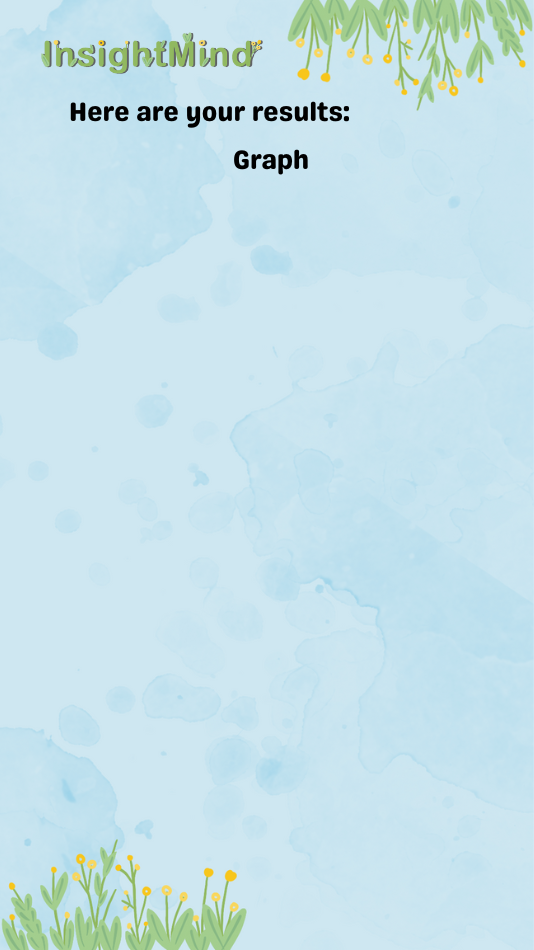
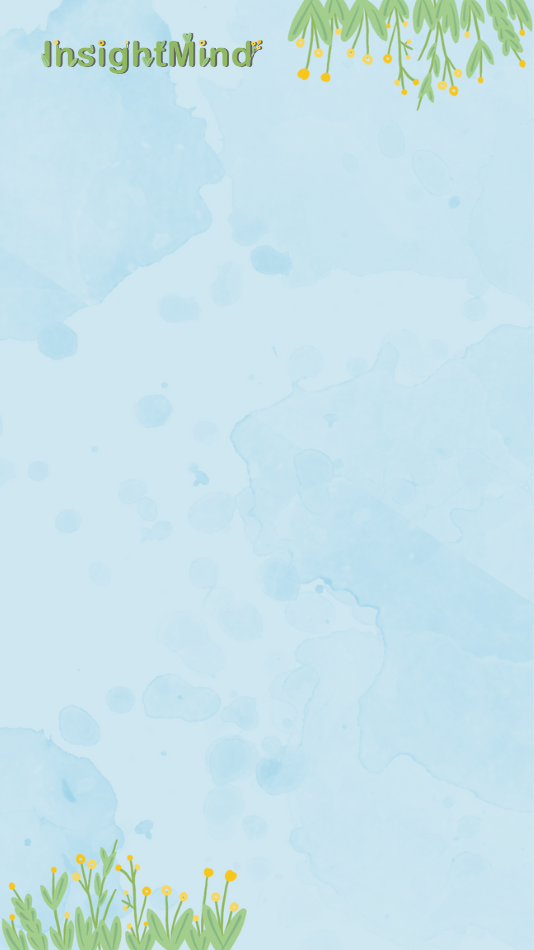
Fix current_page error

Changed region(s): [[0.1199, 0.0916, 0.6592, 0.1832]]

diff --git a/pygame/InsightMind.py b/pygame/InsightMind.py
@@ -237,6 +237,7 @@ def main():
         # Page6: Dass42 introduction
     dass42_intro = pygame.image.load('pygame/images/dass42_intro.png').convert()
         # Page7: questionnaire (Use None for dynamic content page)
+    questionnaire_page = pygame.image.load('pygame/images/clear_page.png').convert()
         # Page8: Result
     result_page = pygame.image.load('pygame/images/result.png').convert()
         # Page9: Advice
@@ -244,7 +245,7 @@ def main():
         # Page10: graph
     graph_page = pygame.image.load('pygame/images/graph.png').convert()
         # List of pages 
-    pages = [main_menu, intro_page1, intro_page2, dass_menu, dass21_intro, dass42_intro, result_page, advice_page, graph_page]
+    pages = [main_menu, intro_page1, intro_page2, dass_menu, dass21_intro, dass42_intro, questionnaire_page, result_page, advice_page, graph_page]
     
     # Initialize buttons
         # Button on MainMenu page
@@ -252,10 +253,10 @@ def main():
     main_button = buttons.Button(65, 474.8, mainButton_img, 1)
         # Button for navigating pages
     back_img = pygame.image.load("pygame/images/back.png").convert_alpha()
-    back_intro_button = buttons.Button(291, 870, back_img, 1)
+    back_intro_button = buttons.Button(300, 880, back_img, 1)
     back_button = buttons.Button(200, 850, back_img, 1)
     next_img = pygame.image.load("pygame/images/next.png").convert_alpha()
-    next_intro_button = buttons.Button(395, 870, next_img, 1)
+    next_intro_button = buttons.Button(400, 880, next_img, 1)
     next_button = buttons.Button(279, 850, next_img, 1)
     start_img = pygame.image.load("pygame/images/start_80px.png").convert_alpha()
     start_button = buttons.Button(206.3, 760, start_img, 1)
@@ -303,6 +304,13 @@ def main():
         screen.fill((0,0,0))
         # Draw the current page
         screen.blit(pages[current_page], (0, 0))
+
+        if current_page >= len(pages):
+            print(f"Error: current_page {current_page} is out of range. Resetting to last available page.")
+            current_page = len(pages) - 1  # Reset to the last valid page index
+        elif current_page < 0:
+            print(f"Error: current_page {current_page} is negative. Resetting to first page.")
+            current_page = 0  # Reset to the first page index
         
         if current_page == 0:
             # screen.blit(main_menu, (0, 0))
@@ -428,7 +436,7 @@ def main():
                     else:
                         questionnaire_finished = True
             if show_error_message and error_message:
-                screen.blit(error_message, (45, 250))
+                screen.blit(error_message, (80, 240))
 
         elif current_page == 5:
             screen.blit(dass42_intro, (0, 0))
@@ -512,70 +520,51 @@ def main():
                     else:
                         questionnaire_finished = True
             if show_error_message and error_message:
-                screen.blit(error_message, (45, 250))
+                screen.blit(error_message, (80, 240))
 
+        # Handling the results page
         if questionnaire_finished and current_page == 7:
             screen.blit(result_page, (0, 0))  
-            # Display a text on the result screen
             textString = "Here are your results"
             headle_text = font3.render(textString, True, (0, 0, 0))
-            screen.blit(headle_text, (130, 900))
-            scores = calculate_dass_scores(responses, version)
-            # make_radar_chart(screen, "DASS Results", scores, font)
-            display_icons(screen, scores, icons)
-            print_scores(screen, scores, version, font, icons)     
-
+            screen.blit(headle_text, (130, 90))
             if not results_printed:
+                scores = calculate_dass_scores(responses, version)
+                display_icons(screen, scores, icons)
+                print_scores(screen, scores, version, font, icons)     
                 print(responses)   
-                debug_print_scores(scores, version)  # Optionally print scores to console for debugging
+                debug_print_scores(scores, version)
                 results_printed = True
 
             if next_intro_button.draw(screen):
-                print("Next Button clicked")  # Debug print
+                print("Next Button clicked")
                 current_page = 8  # Navigate to advice page
                 print("Navigating to advice page.")
-        
+
+        # Handling the advice page
         elif current_page == 8: 
             screen.blit(advice_page, (0, 0))
-            # Display a text on the result screen
             textString = "General Advice"
             headle_text = font3.render(textString, True, (0, 0, 0))
-            screen.blit(headle_text, (130, 90))
-            if not results_printed:
-                scores = calculate_dass_scores(responses, version)
-                # make_radar_chart(screen, "DASS Results", scores, font)
-                display_icons(screen, scores, icons)
-                print_scores(screen, scores, version, font, icons)
-                print(responses)   
-                debug_print_scores(scores, version)  # Optionally print scores to console for debugging
-                results_printed = True
-
+            screen.blit(headle_text, (180, 90))
             if back_intro_button.draw(screen):
-                print("Back Button clicked")  # Debug print
-                current_page = 7  # Move back to the previous pages
+                print("Back Button clicked")
+                current_page = 7  # Move back to results page
+
             if next_intro_button.draw(screen):
-                print("Next Button clicked")  # Debug print
-                current_page = 9  # Move for to the previous pages
+                print("Next Button clicked")
+                current_page = 9  # Navigate to graph page
                 print("Navigating to graph page.")
 
-        elif current_page == 8: 
+        # Handling the graph results page
+        elif current_page == 9: 
             screen.blit(graph_page, (0, 0))
-            # Display a text on the result screen
-            textString = "Graph result"
+            textString = "Graph Results"
             headle_text = font3.render(textString, True, (0, 0, 0))
-            screen.blit(headle_text, (130, 90))
-            if not results_printed:
-                scores = calculate_dass_scores(responses, version)
-                # make_radar_chart(screen, "DASS Results", scores, font)
-                display_icons(screen, scores, icons)
-                print_scores(screen, scores, version, font, icons)
-                print(responses)   
-                debug_print_scores(scores, version)  # Optionally print scores to console for debugging
-                results_printed = True
-
+            screen.blit(headle_text, (200, 90))
             if back_intro_button.draw(screen):
-                print("Back Button clicked")  # Debug print
-                current_page = 8  # Move back to the previous pages
+                print("Back Button clicked")
+                current_page = 8  # Move back to advice page
 
             
         for event in pygame.event.get():
